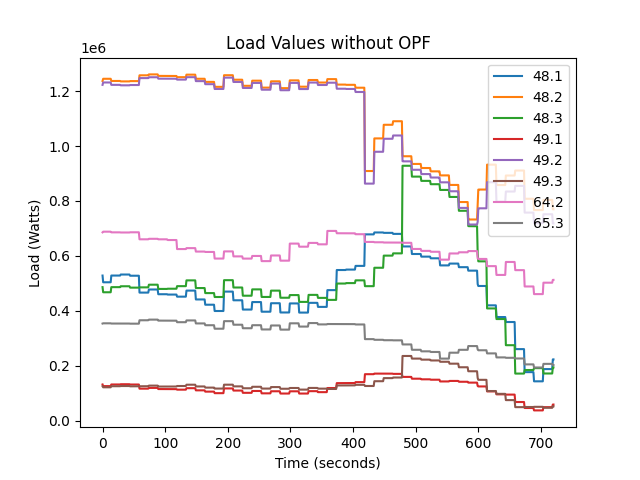
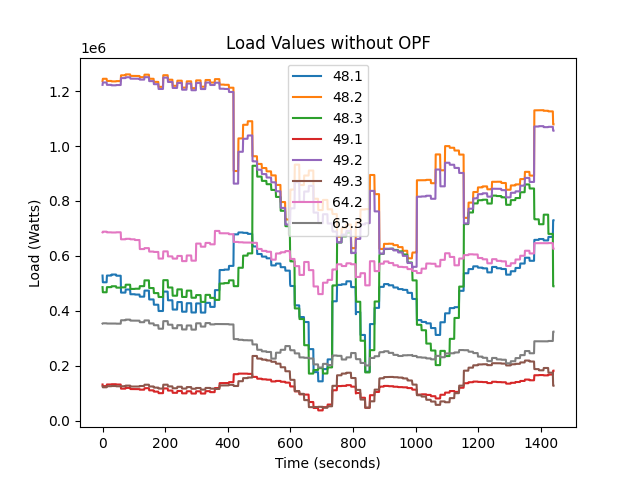
cleaned up federate messages

diff --git a/opf_federate_123PV/opf_federate_123PV.py b/opf_federate_123PV/opf_federate_123PV.py
@@ -79,7 +79,10 @@ def get_indices(topology, labelled_array):
     inv_map = {v: i for i, v in enumerate(topology.unique_ids)}
     return [inv_map[v] for v in labelled_array.unique_ids]
 
-
+def pol2cart(rho, phi):
+    x = rho * np.cos(phi)
+    y = rho * np.sin(phi)
+    return x, y
 class OptimalPowerFlowFederate:
     "Optimal Power Flow Federate. Wraps OPF with Pubs and Subs"
 
@@ -132,15 +135,25 @@ class OptimalPowerFlowFederate:
         logger.info(f"pv_info subscribed")
 
 
-        self.sub_voltages_real = self.opf_fed.register_subscription(
-            input_mapping["voltages_real"], "V"
+        self.sub_voltages_angle = self.opf_fed.register_subscription(
+            input_mapping["voltage_angle"], "V"
         )
-        logger.info(f"real voltages subscribed")
+        logger.info(f"angle voltages subscribed")
 
-        self.sub_voltages_imag = self.opf_fed.register_subscription(
-            input_mapping["voltages_imag"], "V"
+        self.sub_voltages_mag = self.opf_fed.register_subscription(
+            input_mapping["voltage_mag"], "V"
         )
-        logger.info(f"imaginary voltages subscribed")
+        logger.info(f"magnitude voltages subscribed")
+
+        # self.sub_voltages_real = self.opf_fed.register_subscription(
+        #     input_mapping["voltages_real"], "V"
+        # )
+        # logger.info(f"real voltages subscribed")
+        #
+        # self.sub_voltages_imag = self.opf_fed.register_subscription(
+        #     input_mapping["voltages_imag"], "V"
+        # )
+        # logger.info(f"imaginary voltages subscribed")
 
         self.sub_powers_real = self.opf_fed.register_subscription(
             input_mapping["powers_real"], "W"
@@ -203,7 +216,7 @@ class OptimalPowerFlowFederate:
         self.opf_fed.enter_executing_mode()
         logger.info("Entering execution mode")
 
-        seconds = 60*60*12
+        seconds = 60*60*24
         total_interval = int(seconds + 10)
         logger.info(f'HELICS PROPERTY TIME PERIOD {h.HELICS_PROPERTY_TIME_PERIOD}')
         update_interval = int(h.helicsFederateGetTimeProperty(self.opf_fed, h.HELICS_PROPERTY_TIME_PERIOD))
@@ -250,15 +263,38 @@ class OptimalPowerFlowFederate:
                     logger.info(f"pv_info received")
                     #TODO: check why the s values are not coming directly
                     self.pv_s_init = np.array(np.sqrt(np.array(self.pv_info.p_values)**2 + np.array(self.pv_info.q_values)**2))
-                    logger.info(f'real voltages subscribed {self.sub_voltages_real.json}')
+                    # logger.info(f'real voltages subscribed {self.sub_voltages_real.json}')
 
                     # dynamic states, which may change
-                    self.voltages_real = LabelledArray.parse_obj(self.sub_voltages_real.json)
-                    logger.info(f'Subscribed REAL Voltages Received')
+                    self.voltages_angle = LabelledArray.parse_obj(self.sub_voltages_angle.json)
+                    logger.info(f'Subscribed angle Voltages Received from WLS')
+                    logger.info(f'self.voltages_angle = {self.voltages_angle}')
+                    self.voltages_mag = LabelledArray.parse_obj(self.sub_voltages_mag.json)
+                    logger.info(f'Subscribed mag Voltages Received from WLS')
+                    logger.info(f'self.voltages_mag = {self.voltages_mag}')
 
-                    self.voltages_imag = LabelledArray.parse_obj(self.sub_voltages_imag.json)
-                    logger.info(f'Subscribed Imag Voltages Received')
+                    voltages_real_wls = self.voltages_angle
+                    voltages_imag_wls = self.voltages_mag
 
+
+                    # state estimator is calculating voltages in LL rather than LN
+                    voltages_real, voltages_imag = pol2cart(self.voltages_mag.array/np.sqrt(3), self.voltages_angle.array)
+                    voltages_real_wls.array = voltages_real.tolist()
+                    voltages_imag_wls.array = voltages_imag.tolist()
+
+                    logger.info(f'self.voltages_real from wls = {voltages_real_wls}')
+                    logger.info(f'self.voltages_imag from wls = {voltages_imag_wls}')
+
+                    self.voltages_real = voltages_real_wls
+                    self.voltages_imag = voltages_imag_wls
+
+                    # self.voltages_real = LabelledArray.parse_obj(self.sub_voltages_real.json)
+                    # logger.info(f'Subscribed REAL Voltages Received')
+
+                    # self.voltages_imag = LabelledArray.parse_obj(self.sub_voltages_imag.json)
+                    # logger.info(f'Subscribed Imag Voltages Received')
+                    # logger.info(f'self.voltages_real from feeder = {self.voltages_real}')
+                    # logger.info(f'self.voltages_imag from feeder = {self.voltages_imag}')
                     self.powers_P = LabelledArray.parse_obj(self.sub_powers_real.json)
                     logger.info(f'Subscribed Active Power Received')
 
@@ -313,12 +349,34 @@ class OptimalPowerFlowFederate:
                     logger.info(f'tap_values published to feeder')
 
                 else: # dynamic
-                    # dynamic states, coming every 60%15 seconds or some predefined intervals
-                    self.voltages_real = LabelledArray.parse_obj(self.sub_voltages_real.json)
-                    logger.info(f'Subscribed REAL Voltages Received')
+                    # dynamic states, which may change
+                    self.voltages_angle = LabelledArray.parse_obj(self.sub_voltages_angle.json)
+                    logger.info(f'Subscribed angle Voltages Received from WLS')
+                    logger.info(f'self.voltages_angle = {self.voltages_angle}')
+                    self.voltages_mag = LabelledArray.parse_obj(self.sub_voltages_mag.json)
+                    logger.info(f'Subscribed mag Voltages Received from WLS')
+                    logger.info(f'self.voltages_mag = {self.voltages_mag}')
 
-                    self.voltages_imag = LabelledArray.parse_obj(self.sub_voltages_imag.json)
-                    logger.info(f'Subscribed Imag Voltages Received')
+                    voltages_real_wls = self.voltages_angle
+                    voltages_imag_wls = self.voltages_mag
+
+
+                    # state estimator is calculating voltages in LL rather than LN
+                    voltages_real, voltages_imag = pol2cart(self.voltages_mag.array/np.sqrt(3), self.voltages_angle.array)
+                    voltages_real_wls.array = voltages_real.tolist()
+                    voltages_imag_wls.array = voltages_imag.tolist()
+
+                    logger.info(f'self.voltages_real from wls = {voltages_real_wls}')
+                    logger.info(f'self.voltages_imag from wls = {voltages_imag_wls}')
+
+                    self.voltages_real = voltages_real_wls
+                    self.voltages_imag = voltages_imag_wls
+                    # # dynamic states, coming every 60%15 seconds or some predefined intervals
+                    # self.voltages_real = LabelledArray.parse_obj(self.sub_voltages_real.json)
+                    # logger.info(f'Subscribed REAL Voltages Received')
+                    #
+                    # self.voltages_imag = LabelledArray.parse_obj(self.sub_voltages_imag.json)
+                    # logger.info(f'Subscribed Imag Voltages Received')
 
                     self.powers_P = LabelledArray.parse_obj(self.sub_powers_real.json)
                     logger.info(f'Subscribed Active Power Received')

diff --git a/opf_federate_123PV/opf_grid_utility_scripts.py b/opf_federate_123PV/opf_grid_utility_scripts.py
@@ -1104,6 +1104,46 @@ def solve_central_optimization(opfobj):
     logger.debug(f'array_q_cap_opti_abs {opfobj.cap_value_opti_abs}')
     logger.debug(f'array_tap_opti_abs {opfobj.xmer_value_opti_abs}')
 
+    logger.debug(f"===== sainty checks =====")
+    for j in range(0, len(opfobj.p_flex_load_var_opti_abs)):
+        if opfobj.p_flex_load_var_opti_abs[j] < p_flex_load_var_limit_min[j]:
+            opfobj.p_flex_load_var_opti_abs[j] = p_flex_load_var_limit_min[j]
+        elif opfobj.p_flex_load_var_opti_abs[j] > p_flex_load_var_limit_max[j]:
+            opfobj.p_flex_load_var_opti_abs[j] = p_flex_load_var_limit_max[j]
+
+    for j in range(0, len(opfobj.reg_taps_init)):
+        if opfobj.xmer_value_opti_abs[j] < xmer_min_taps[j]:
+            opfobj.xmer_value_opti_abs[j] = xmer_min_taps[j]
+        elif opfobj.xmer_value_opti_abs[j] > xmer_max_taps[j]:
+            opfobj.xmer_value_opti_abs[j] = xmer_max_taps[j]
+
+    for j in range(0, len(opfobj.cap_bank_init)):
+        if opfobj.cap_value_opti_abs[j] < cap_power_min[j]:
+            opfobj.cap_value_opti_abs[j] = cap_power_min[j]
+        elif opfobj.cap_value_opti_abs[j] > cap_power_max[j]:
+            opfobj.cap_value_opti_abs[j] = cap_power_max[j]
+
+    for j in range(0, len(opfobj.pv_q_init)):
+        if opfobj.q_pv_opti_abs[j] < pv_q_min[j]:
+            opfobj.q_pv_opti_abs[j] = pv_q_min[j]
+        elif opfobj.q_pv_opti_abs[j] > pv_q_max[j]:
+            opfobj.q_pv_opti_abs[j] = pv_q_max[j]
+
+    for j in range(0, len(opfobj.pv_p_init)):
+        if opfobj.p_pv_opti_abs[j] < pv_p_min[j]:
+            opfobj.p_pv_opti_abs[j] = pv_p_min[j]
+        elif opfobj.p_pv_opti_abs[j] > pv_p_max[j]:
+            opfobj.p_pv_opti_abs[j] = pv_p_max[j]
+
+    logger.debug("======= optimal variable movement proposed after sanity checks==== ")
+    logger.debug(f'active_power_generation_import {opfobj.active_power_generation_import}')
+    logger.debug(f'reactive_power_generation_import {opfobj.reactive_power_generation_import}')
+    logger.debug(f'array_p_flex_load_var_opti_abs {opfobj.p_flex_load_var_opti_abs}')
+    logger.debug(f'array_p_pv_opti_abs { opfobj.p_pv_opti_abs}')
+    logger.debug(f'array_q_pv_opti_abs {opfobj.q_pv_opti_abs}')
+    logger.debug(f'array_q_cap_opti_abs {opfobj.cap_value_opti_abs}')
+    logger.debug(f'array_tap_opti_abs {opfobj.xmer_value_opti_abs}')
+
 
     opfobj.p_flex_load_var_opti = opfobj.p_flex_load_init - np.array(opfobj.p_flex_load_var_opti_abs)
     opfobj.cap_value_opti = opfobj.cap_bank_init - np.array(opfobj.cap_value_opti_abs)

diff --git a/wls_federate/state_estimator_federate.py b/wls_federate/state_estimator_federate.py
@@ -15,11 +15,15 @@ from pydantic import BaseModel
 from enum import Enum
 from typing import List, Optional
 from scipy.optimize import least_squares
-
+import cmath
 logger = logging.getLogger(__name__)
 logger.addHandler(logging.StreamHandler())
 logger.setLevel(logging.INFO)
 
+def pol2cart(rho, phi):
+    x = rho * np.cos(phi)
+    y = rho * np.sin(phi)
+    return x, y
 def cal_h(knownP, knownQ, knownV, Y, deltaK, VabsK, num_node):
     h1 = (VabsK[knownV]).reshape(-1,1)
     Vp = VabsK * np.exp(1j * deltaK)
@@ -231,7 +235,7 @@ class StateEstimatorFederate:
     "State estimator federate. Wraps state_estimation with pubs and subs"
     def __init__(self, federate_name, algorithm_parameters: AlgorithmParameters, input_mapping):
         "Initializes federate with name and remaps input into subscriptions"
-        deltat = 0.1
+        deltat = 15*60
 
         self.algorithm_parameters = algorithm_parameters
 
@@ -309,11 +313,17 @@ class StateEstimatorFederate:
                 array=list(voltage_magnitudes),
                 unique_ids=topology.unique_ids
             ).json())
+
             self.pub_voltage_angle.publish(LabelledArray(
                 array=list(voltage_angles),
                 unique_ids=topology.unique_ids
             ).json())
+            v_real, v_imag = pol2cart(voltage_magnitudes,voltage_angles)
+            logger.debug(f'voltage_angles {voltage_angles}')
+            logger.debug(f'voltage_magnitudes {voltage_magnitudes}')
 
+            logger.debug(f'voltage_real {v_real}')
+            logger.debug(f'voltage_imag {v_imag}')
         self.destroy()
 
     def destroy(self):

diff --git a/opf_plots.py b/opf_plots.py
@@ -2,7 +2,7 @@ import numpy as np
 import matplotlib.pyplot as plt
 
 
-opf_flag = True
+opf_flag = False
 print(f"reading data ")
 node_data = np.genfromtxt('feeder/nodenames.csv',dtype=str, delimiter=' ')
 voltage_data = np.genfromtxt('feeder/voltages.csv', delimiter=",")
@@ -39,7 +39,7 @@ if opf_flag is True:
 else:
     leg_str = 'without OPF'
 # voltage plots
-print(f"saving selected idx voltage plots")
+#print(f"saving selected idx voltage plots")
 
 fig, ax = plt.subplots()
 ax.plot(voltage_data[:, voltage_idx])
@@ -48,7 +48,7 @@ ax.set_ylabel("Voltages (V)")
 ax.set_xlabel("Time (seconds)")
 ax.set_title("Voltage Magnitudes "+leg_str)
 plt.savefig("Voltage Magnitudes Powers "+leg_str+'.png')
-print(f"saving voltage plots")
+#print(f"saving voltage plots")
 # pv p plots
 print(f"saving selected idx pv active plots")
 

diff --git a/dss_federate_123PV/sender_cosim.py b/dss_federate_123PV/sender_cosim.py
@@ -315,7 +315,7 @@ class SimulationFederate:
         )
 
         #TODO: decide time steps and time intervals
-        seconds = 60*60*12
+        seconds = 60*60*24
 
         total_interval = int(seconds + 10)
         current_index = config.start_time_index
